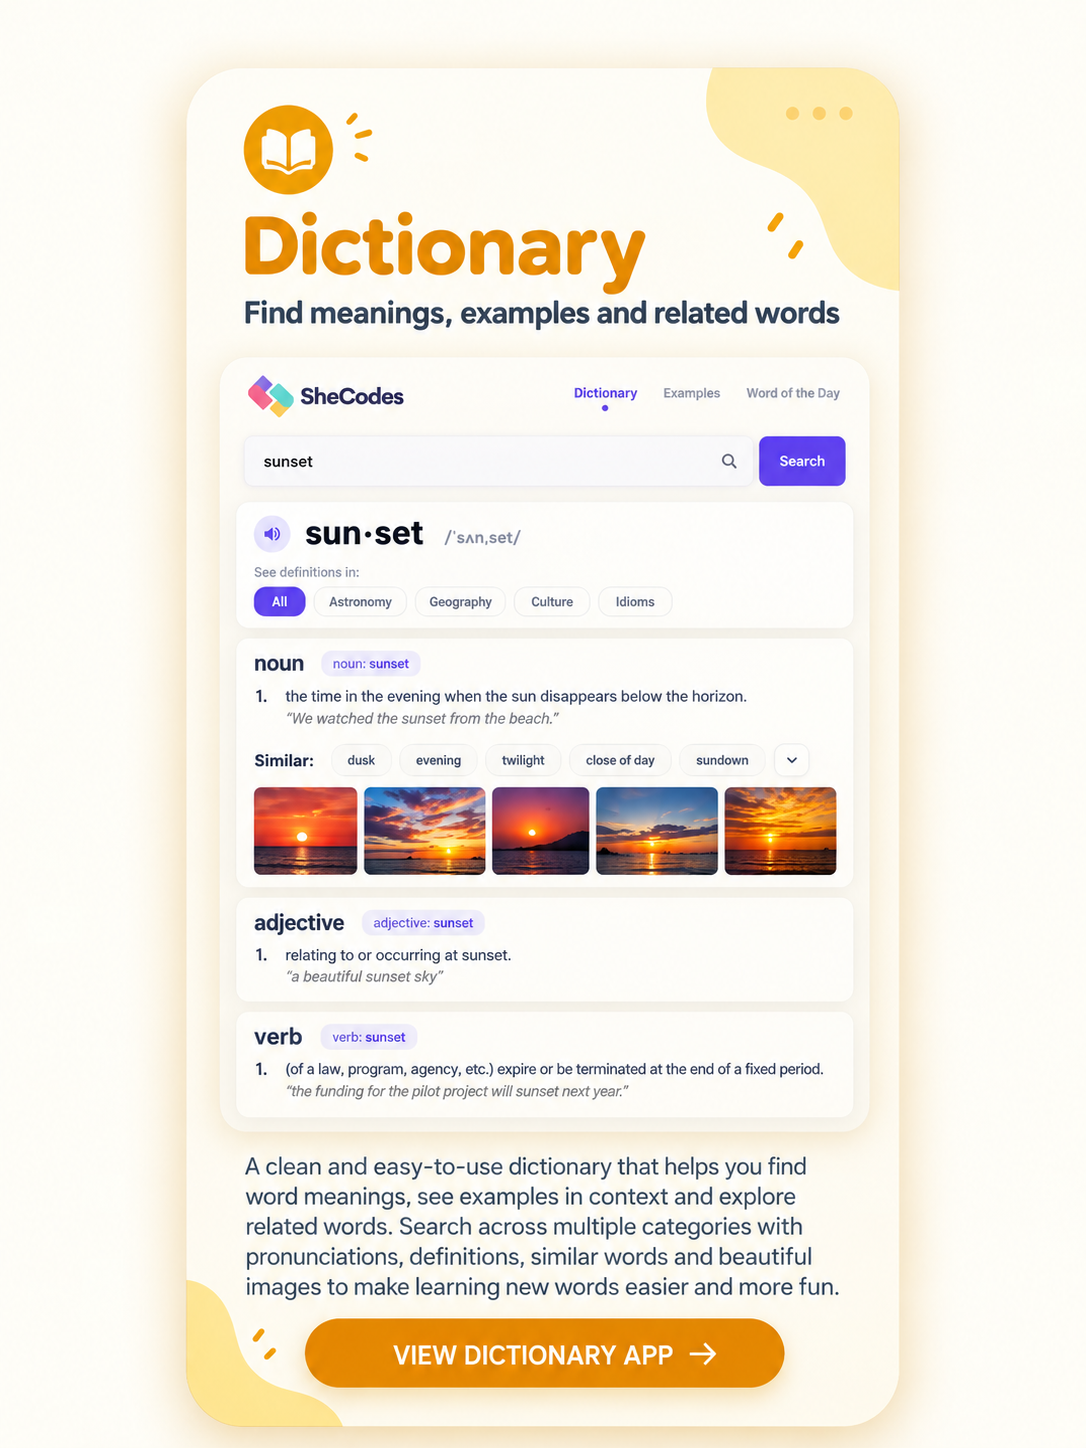
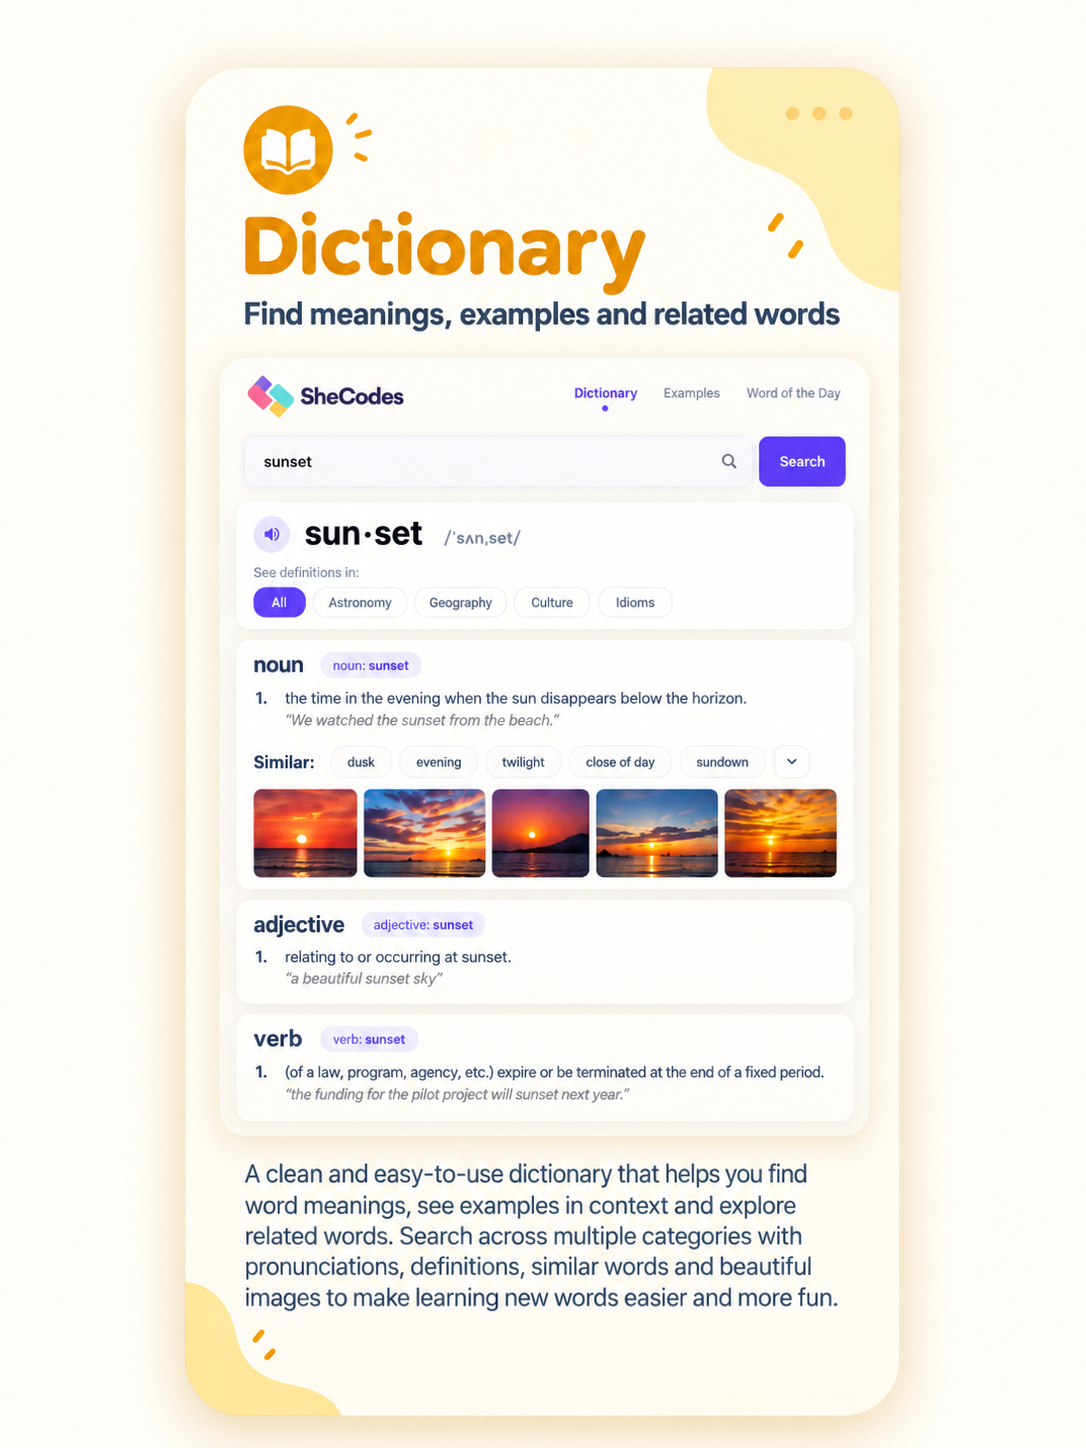
images updated

diff --git a/index.html b/index.html
@@ -24,7 +24,7 @@
 
   <div class="row mb-5">
     <div class="col d-none d-lg-block">
-<img src="images/Greek-yogurt.png" class="img-fluid">
+<img src="images/yogurt.png" class="img-fluid">
     </div>
     <div class="col">
       <div class="project-description">
@@ -50,7 +50,7 @@
 
 
     <div class="col d-none d-lg-block">
-<img src="images/Weather.png" class="img-fluid">
+<img src="images/weather.png" class="img-fluid">
     </div>
     
    
@@ -58,7 +58,7 @@
 
   <div class="row mb-5">
     <div class="col d-none d-lg-block">
-<img src="images/Dictionary.png" class="img-fluid">
+<img src="images/dictionary.png" class="img-fluid">
     </div>
     <div class="col">
       <div class="project-description">

diff --git a/styles/portfolio.css b/styles/portfolio.css
@@ -82,7 +82,8 @@ p {
     text-align: center;
   }
   .hero {
-  background: var(--secondary-color);
-  text-align: center;
-  padding: 80px 20px;
+    background: var(--secondary-color);
+    text-align: center;
+    padding: 80px 20px;
+  }
 }
